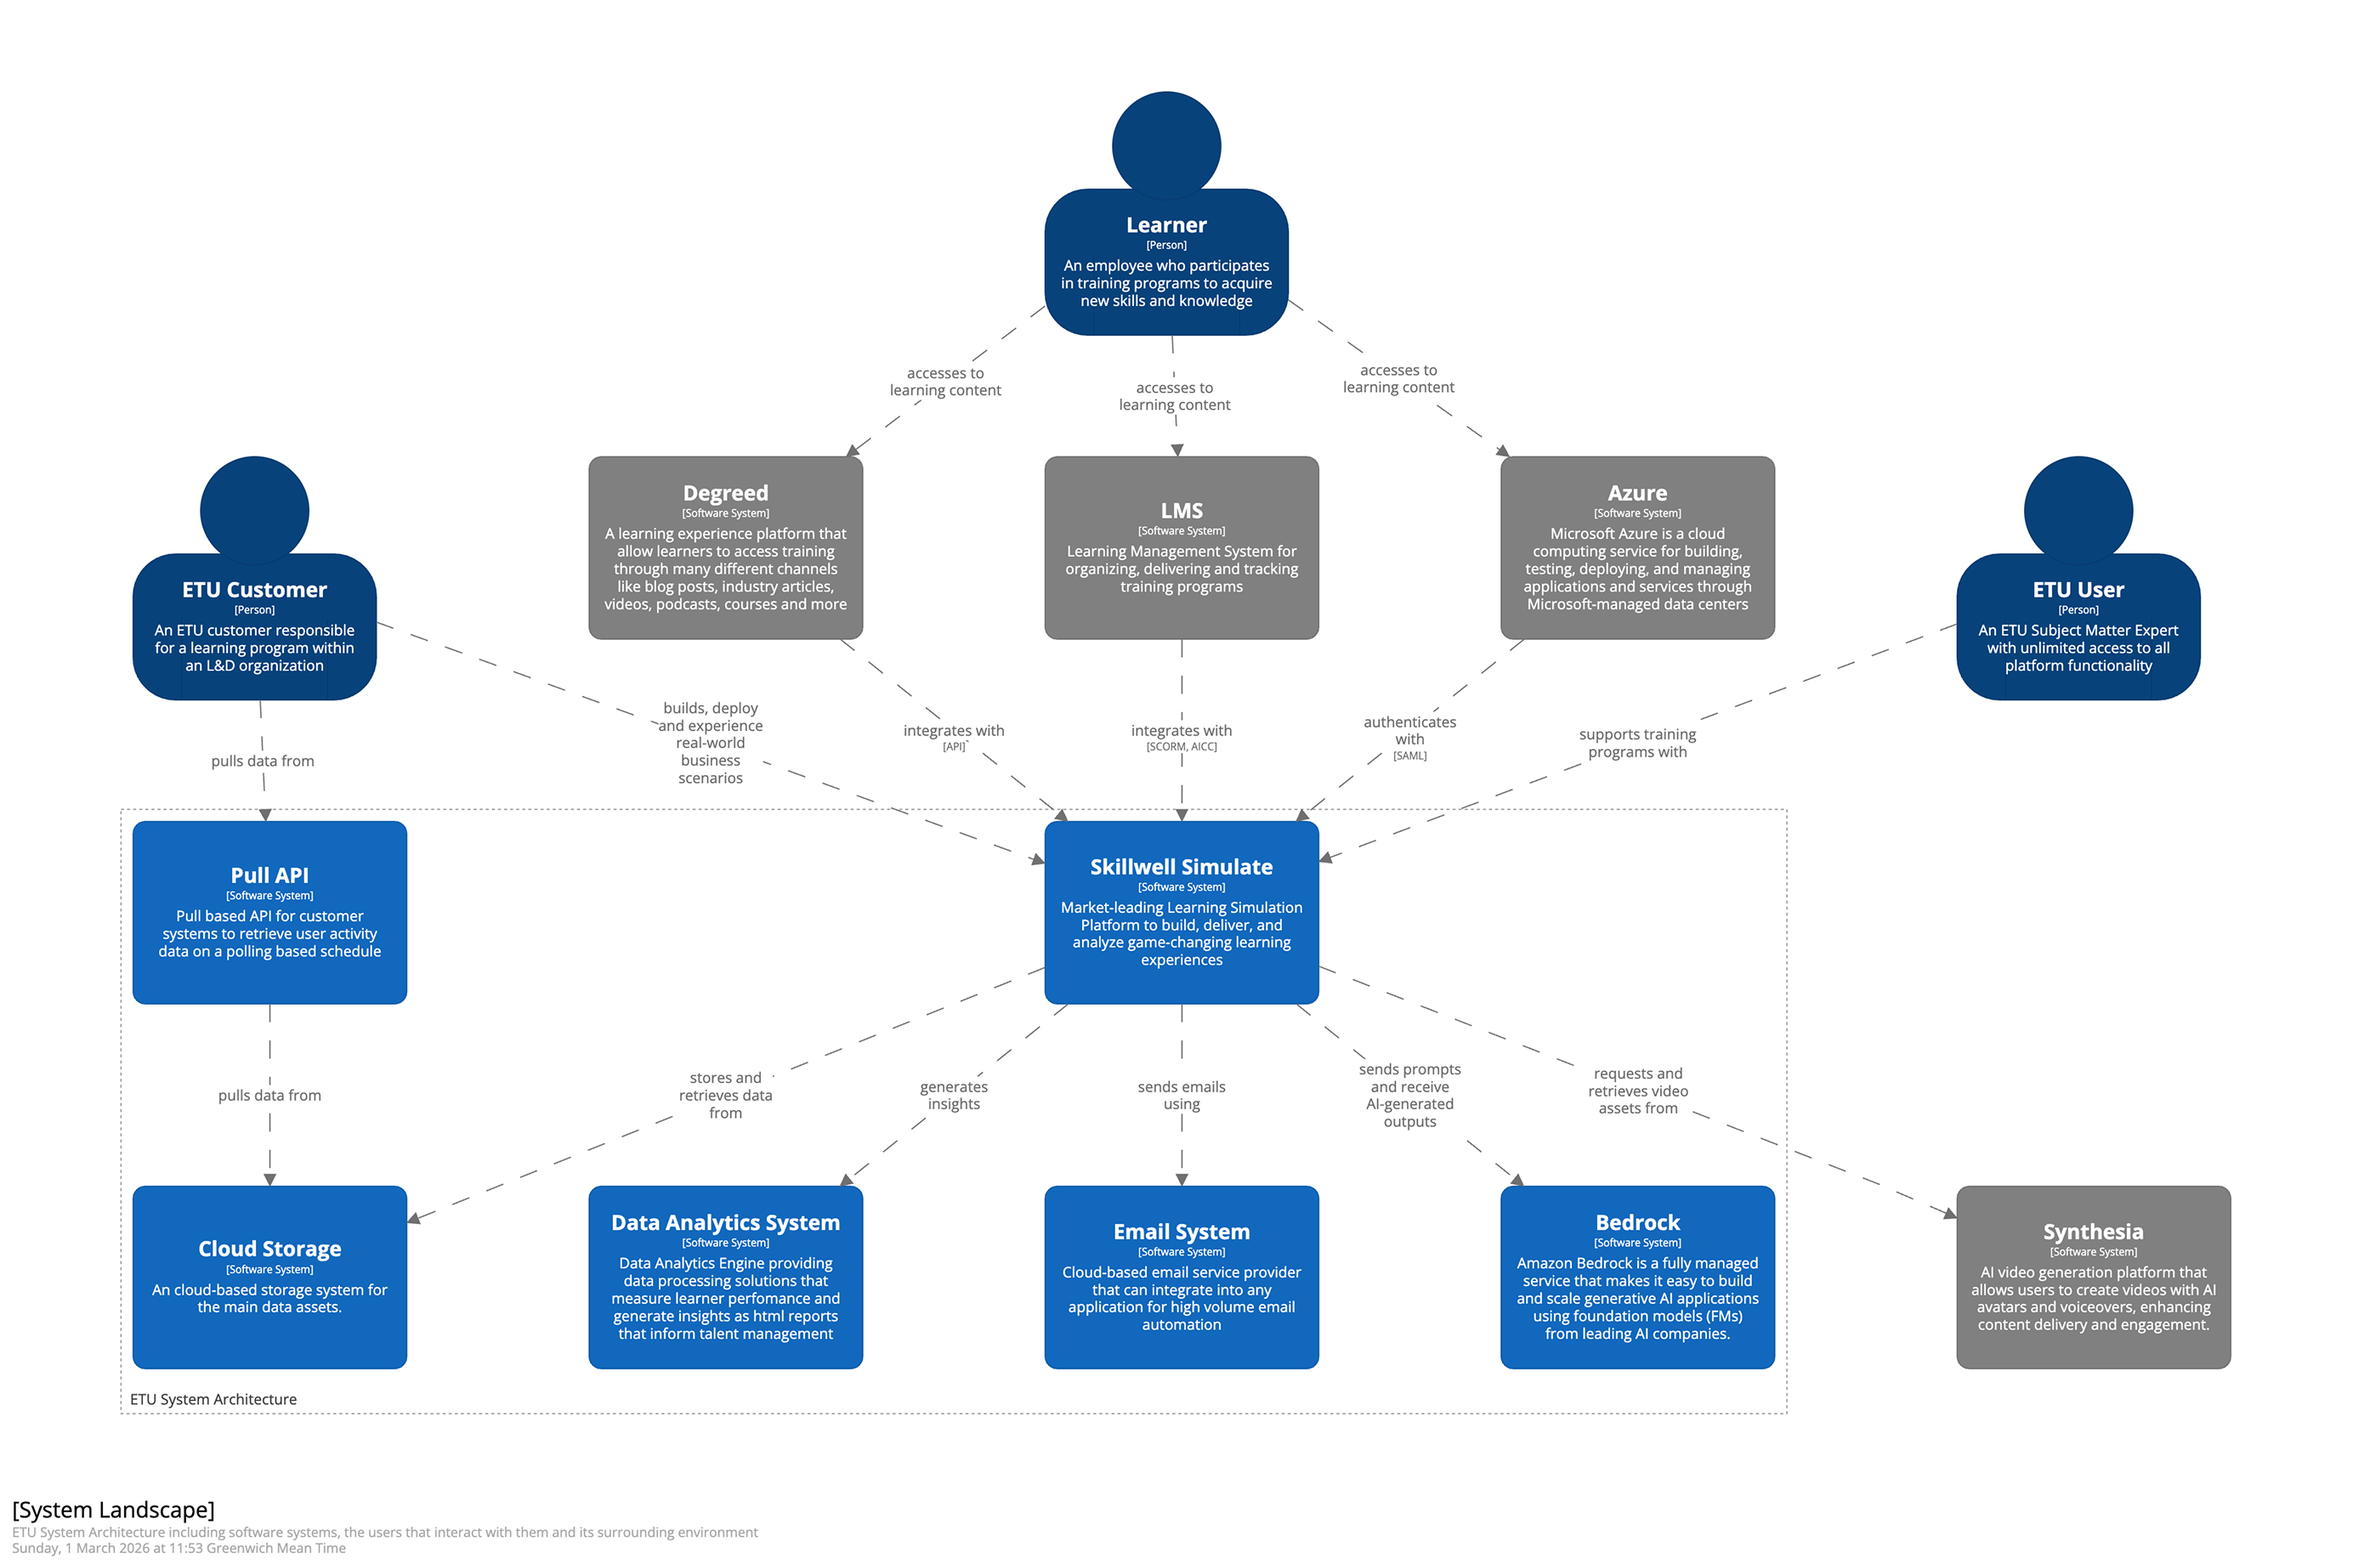
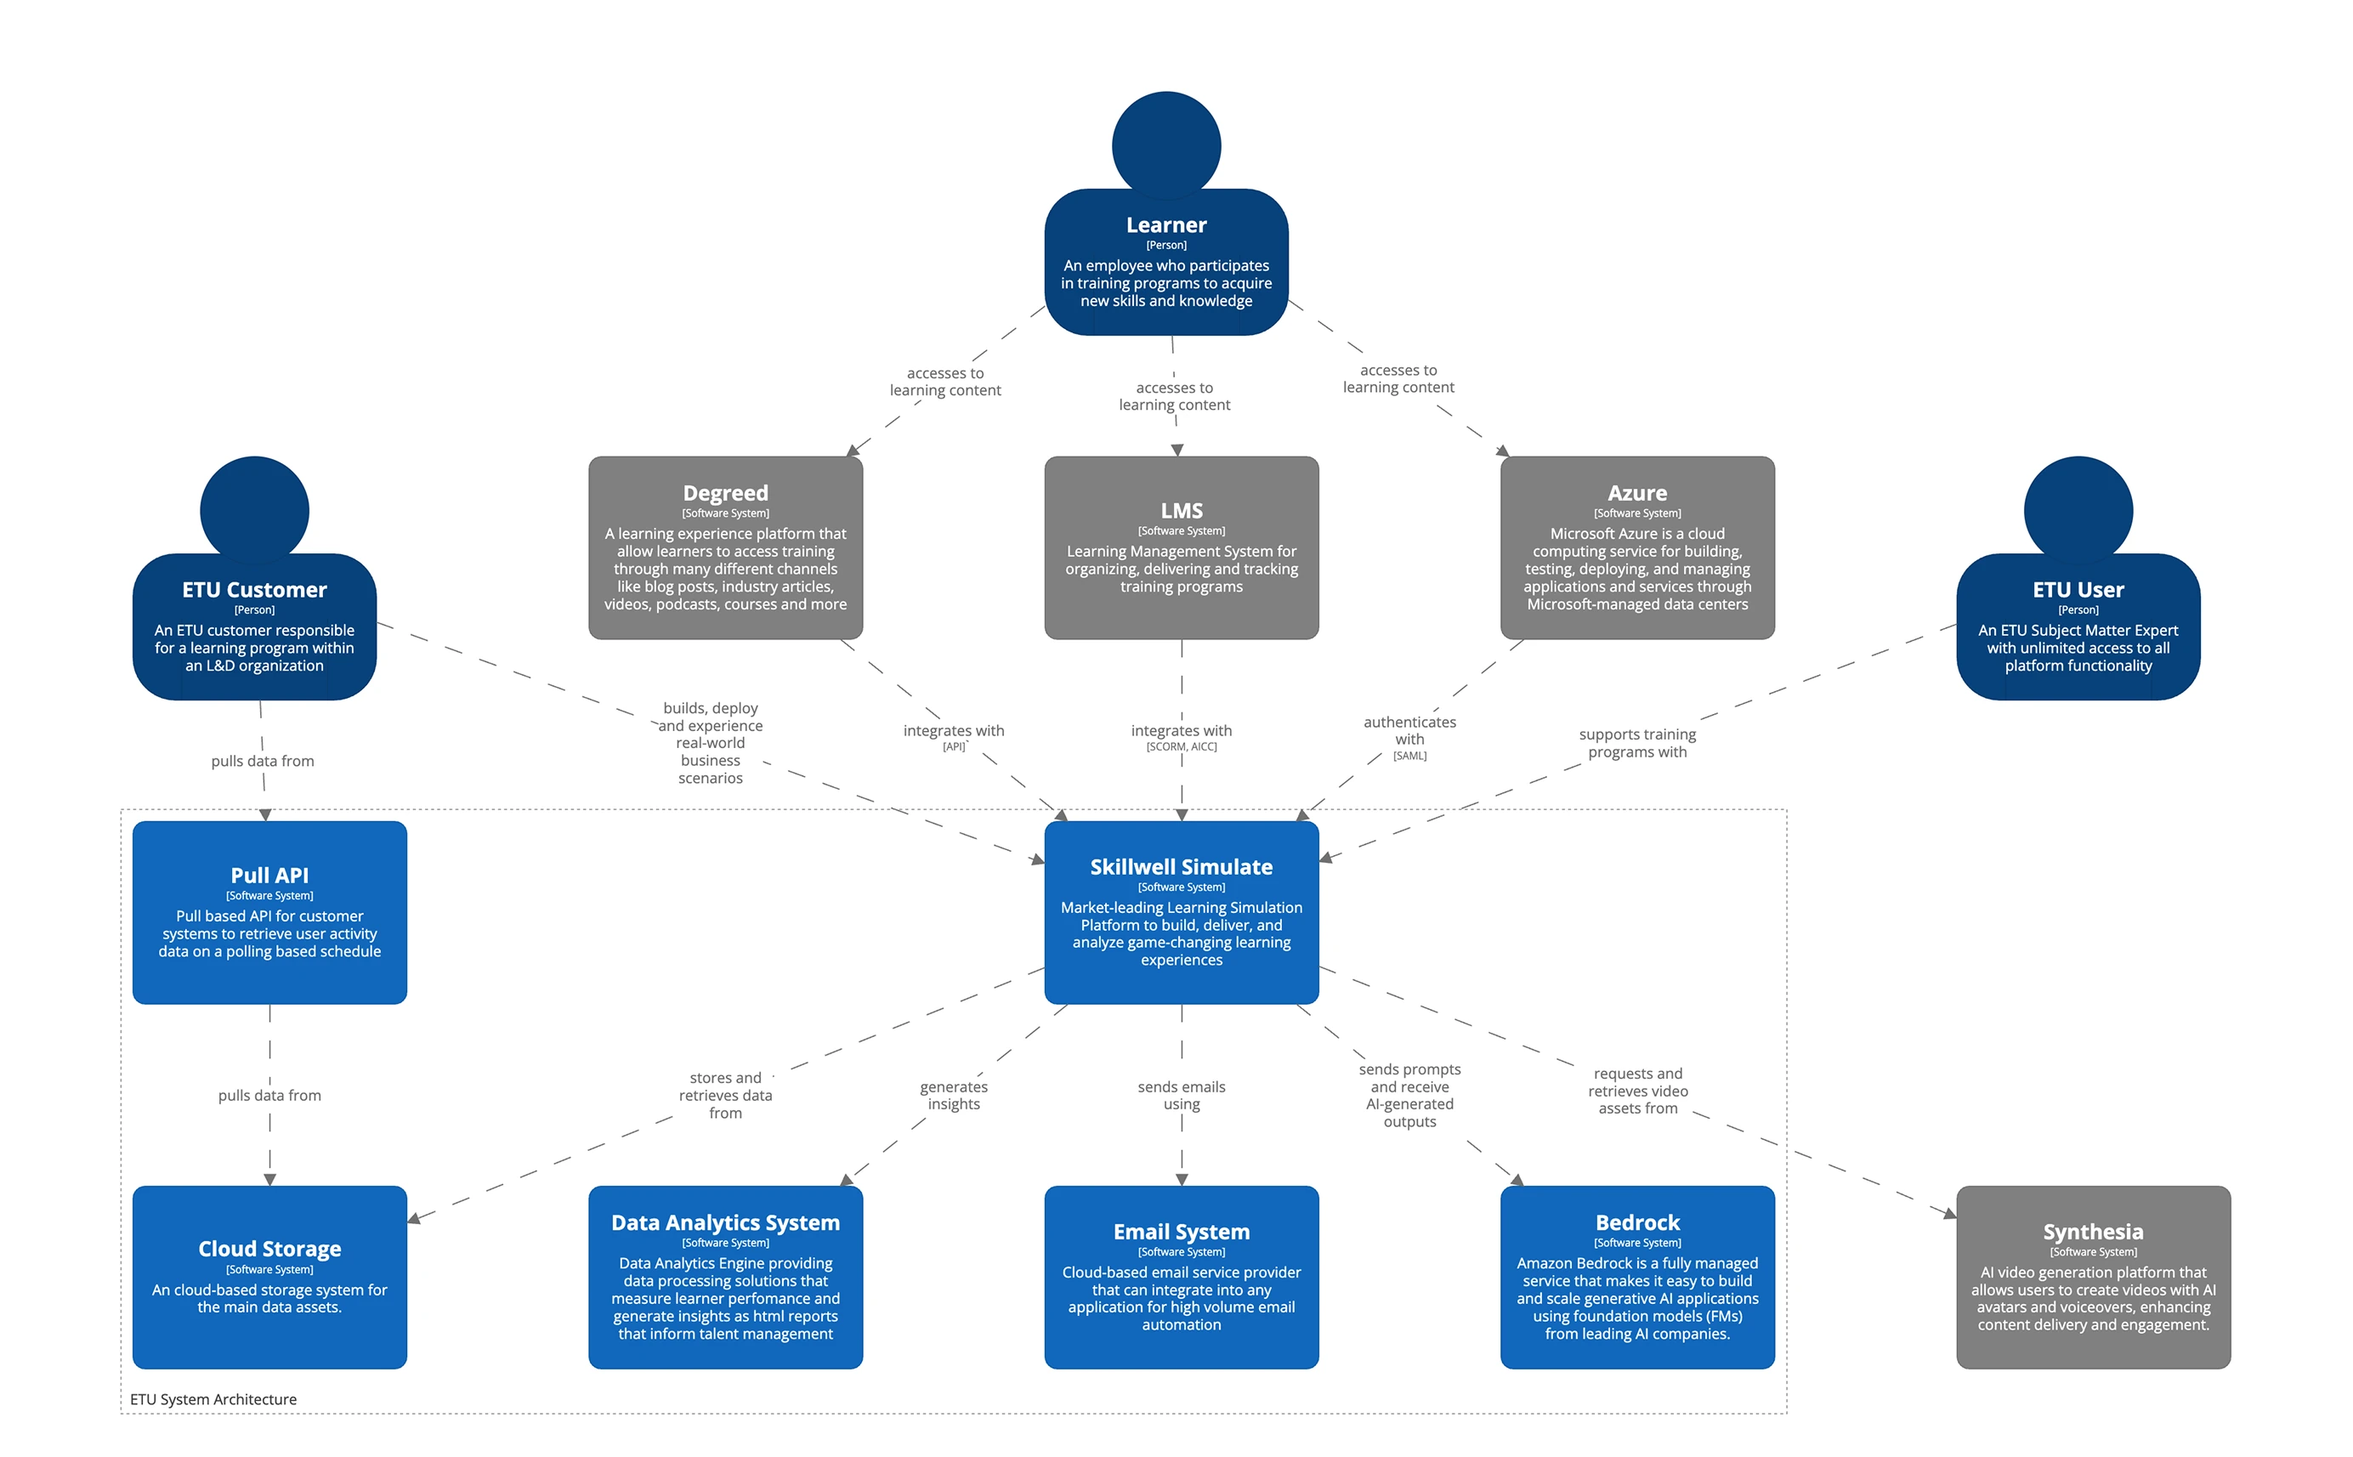
feat: move caption out of img

diff --git a/content/case-studies/skillwell/index.md b/content/case-studies/skillwell/index.md
@@ -113,7 +113,7 @@ Upon completion, the platform instantly evaluates performance against predefined
     alt="Structurizr system landscape diagram. Skillwell Simulate sits at the centre, connected to three user roles (Learner, ETU Customer, ETU User) and to external systems: Degreed via API, an LMS via SCORM/AICC, and Azure via SAML. It exchanges data with a Pull API, Cloud Storage, a Data Analytics System, an Email System, Amazon Bedrock, and Synthesia."
   />
   <figcaption>
-    System Architecture including software systems, the users that interact with them and its surrounding environment
+    System Landscape — ETU System Architecture including software systems, the users that interact with them and its surrounding environment
     <a href="./images/system-landscape-full.webp" target="_blank" rel="noopener">View full size</a>
   </figcaption>
 </figure>
@@ -142,7 +142,7 @@ Upon completion, the platform instantly evaluates performance against predefined
     alt="Structurizr container diagram of the Skillwell Simulate platform. Three user roles (Learner, Admin, Author) interact with the platform, which is fronted by a SAML Authentication Service and composed of two Jakarta web applications: an Immersive Simulator that delivers simulations, and a Simulation Builder for authoring. These are backed by a Simulate Database, a Filesystem, an S3 Bucket, a Content Generation Database, and a Scope Database, and integrate outward with Degreed, an LMS, Azure, a Data Analytics System, an Email System, Amazon Bedrock, and Synthesia."
   />
   <figcaption>
-    Containers Diagram with focus on the Simulation Builder
+    Simulate Platform — Containers Diagram with focus on the Simulation Builder
     <a href="./images/simulate-containers-full.webp" target="_blank" rel="noopener">View full size</a>
   </figcaption>
 </figure>
